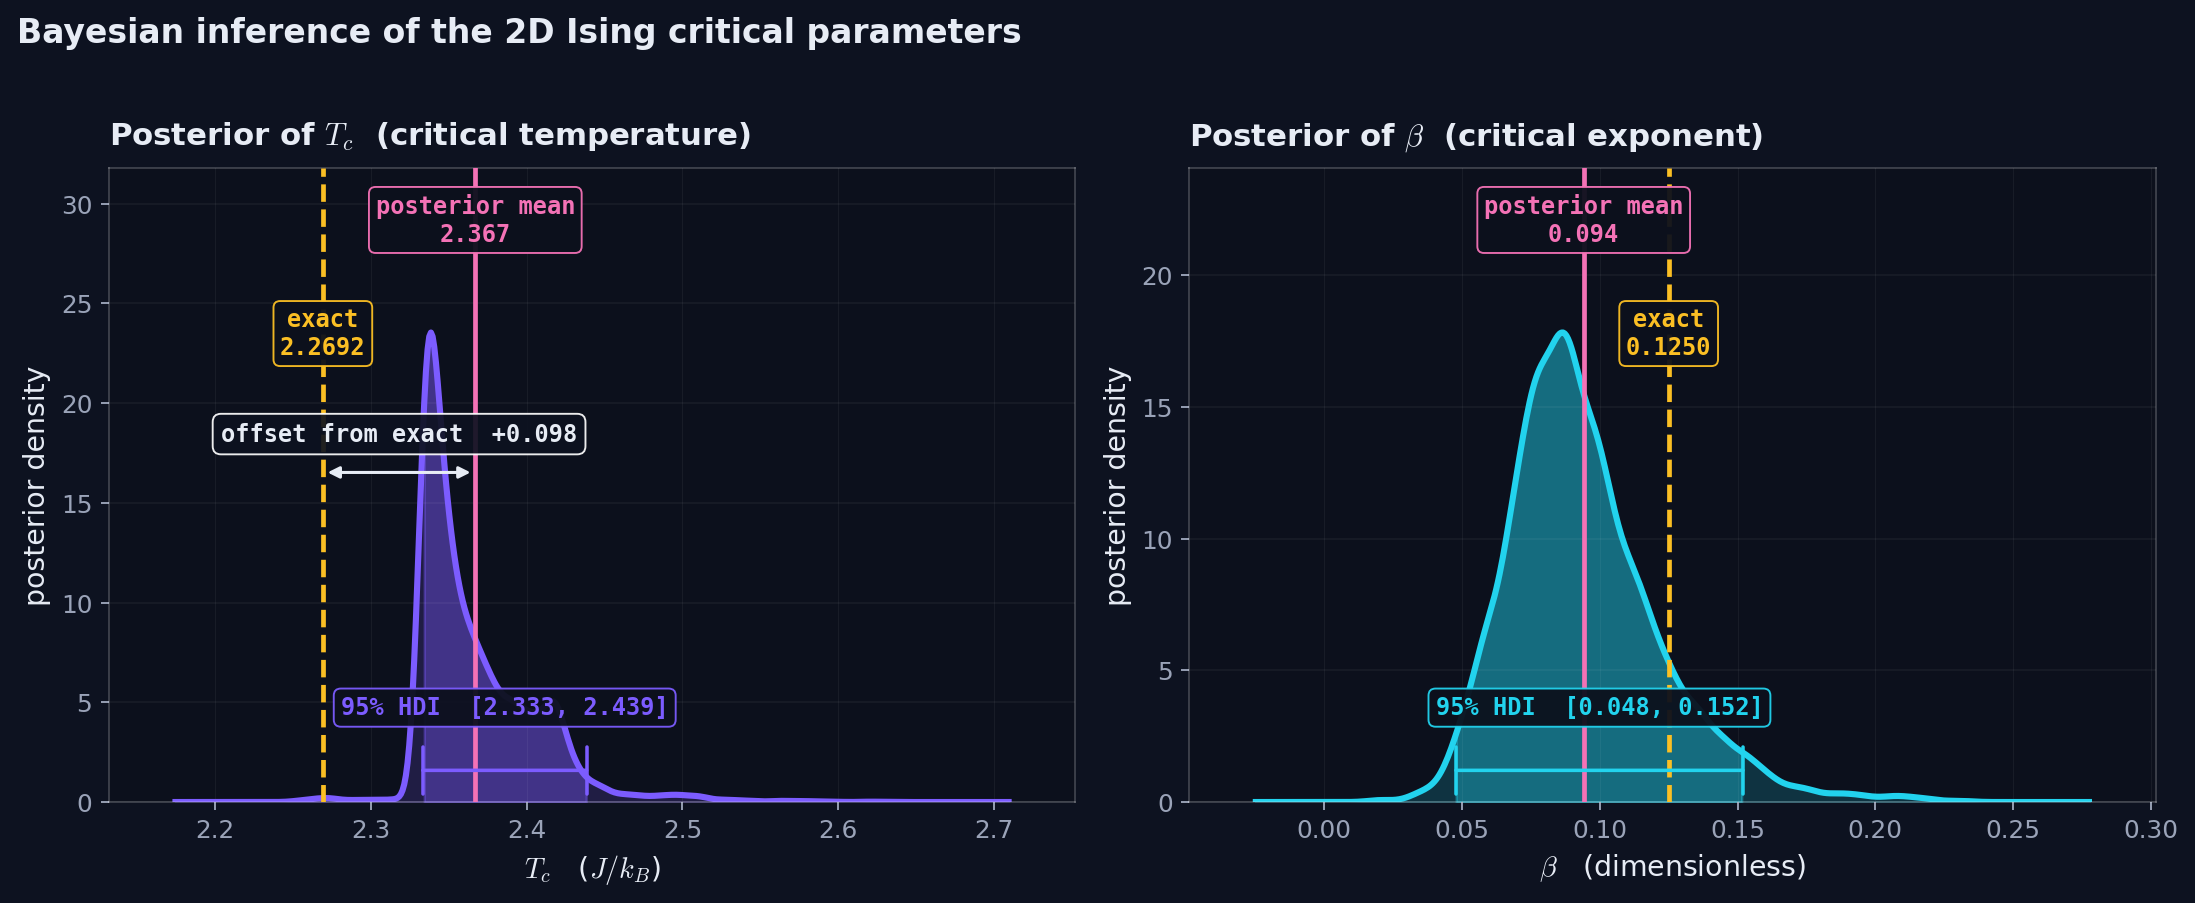
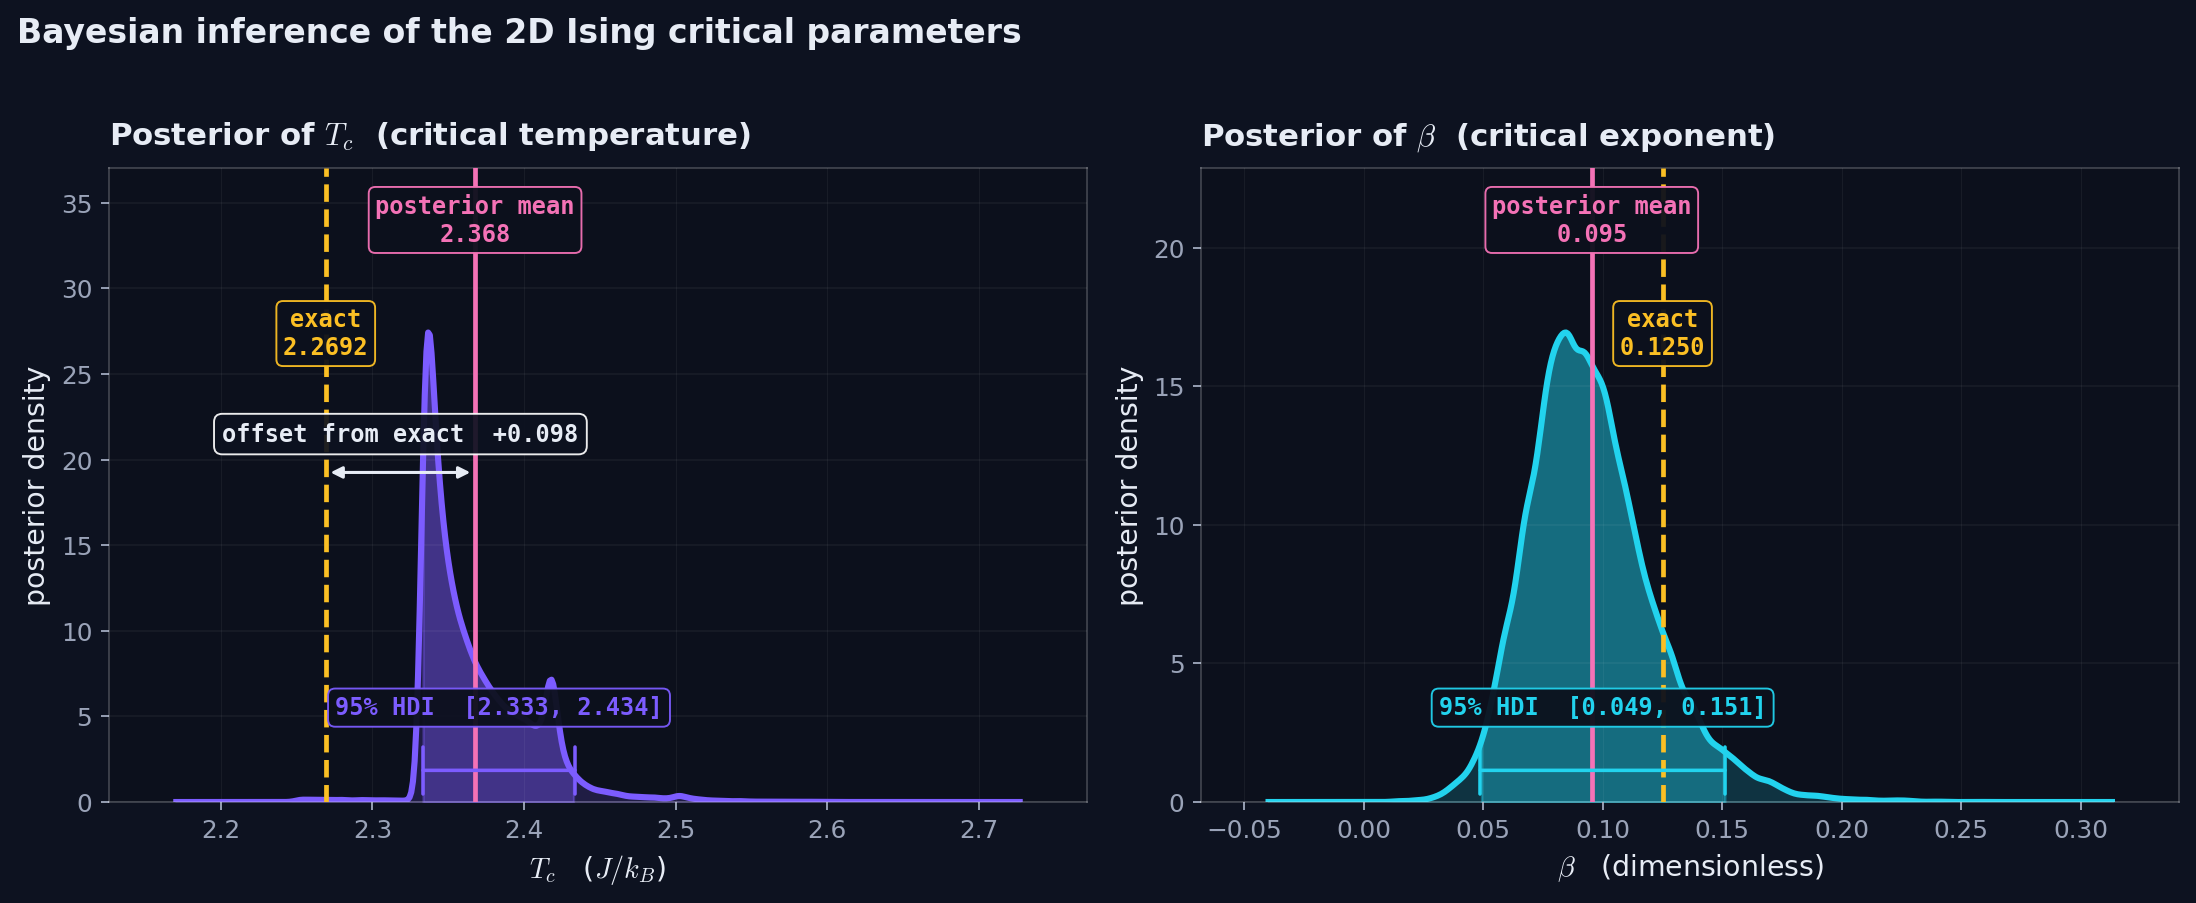
Single-size and model-comparison MCMC with 50 000 draws per chain (was 5 000): ESS of beta 187 -> 2 074, R-hat = 1.00 for every fit. Numbers move in the third decimal (Tc 2.368 [2.333, 2.434], beta 0.095 [0.049, 0.151]). The free-amplitude fit on T < 2.25 was not degenerate: with 5 000 draws its cha

diff --git a/scripts/export_json.py b/scripts/export_json.py
@@ -74,26 +74,24 @@ def _load_csv(path: str) -> dict:
     return {"T": T, "M_mean": M, "M_std": S}
 
 
-def _thin(array_2d: np.ndarray, max_draws: int = 1500) -> np.ndarray:
-    """Subsample draws dimension to cap file size."""
-    n_chains, n_draws = array_2d.shape
-    if n_draws <= max_draws:
-        return array_2d
-    step = max(1, n_draws // max_draws)
-    return array_2d[:, ::step]
+def _thin_step(n_draws: int, max_draws: int = 1500) -> int:
+    """Stride that subsamples the draws dimension to cap file size."""
+    return 1 if n_draws <= max_draws else max(1, n_draws // max_draws)
 
 
 def _posterior_to_dict(trace) -> dict:
     post = trace.posterior
-    Tc = _thin(post["Tc"].values)
-    beta = _thin(post["beta"].values)
-    sigma = _thin(post["sigma"].values)
+    step = _thin_step(post.sizes["draw"])
+    Tc = post["Tc"].values[:, ::step]
+    beta = post["beta"].values[:, ::step]
+    sigma = post["sigma"].values[:, ::step]
     return {
         "Tc": Tc.tolist(),
         "beta": beta.tolist(),
         "sigma": sigma.tolist(),
         "n_chains": int(Tc.shape[0]),
         "n_draws": int(Tc.shape[1]),
+        "draw_step": int(step),
     }
 
 
@@ -150,8 +148,8 @@ def main(
             "n_thermalization": 2000,
             "n_measure": 3000,
             "sampler": "random-walk Metropolis-Hastings (NumPy)",
-            "mcmc_chains": 4,
-            "mcmc_draws_post_burn": 5000,
+            "mcmc_chains": int(trace.posterior.sizes["chain"]),
+            "mcmc_draws_post_burn": int(trace.posterior.sizes["draw"]),
             "mcmc_tune": 1000,
         },
     }

diff --git a/src/bayesian.py b/src/bayesian.py
@@ -92,7 +92,7 @@ def sample_mh_numpy(
     T: np.ndarray,
     M: np.ndarray,
     *,
-    draws: int = 5000,
+    draws: int = 50_000,
     tune: int = 1000,
     chains: int = 4,
     step: tuple[float, float, float] = (0.05, 0.01, 0.015),
@@ -199,7 +199,7 @@ def run_full_inference(
     trace_out: str = "data/trace.nc",
     *,
     backend: str = "numpy",
-    draws: int = 5000,
+    draws: int = 50_000,
     tune: int = 1000,
     chains: int = 4,
     target_accept: float = 0.9,
@@ -261,7 +261,7 @@ def _main() -> None:
     parser.add_argument("--input", type=str, default="data/magnetization.csv")
     parser.add_argument("--output", type=str, default="data/trace.nc")
     parser.add_argument("--backend", type=str, default="numpy", choices=["numpy", "pymc"])
-    parser.add_argument("--draws", type=int, default=5000)
+    parser.add_argument("--draws", type=int, default=50_000)
     parser.add_argument("--tune", type=int, default=1000)
     parser.add_argument("--chains", type=int, default=4)
     parser.add_argument("--target-accept", type=float, default=0.9)

diff --git a/scripts/model_comparison.py b/scripts/model_comparison.py
@@ -265,7 +265,7 @@ if __name__ == "__main__":
                                 formatter_class=argparse.RawDescriptionHelpFormatter)
     p.add_argument("--csv", default="data/magnetization.csv")
     p.add_argument("--out", default="results/model_comparison.json")
-    p.add_argument("--draws", type=int, default=5000)
+    p.add_argument("--draws", type=int, default=50_000)
     p.add_argument("--tune", type=int, default=1000)
     p.add_argument("--chains", type=int, default=4)
     p.add_argument("--seed", type=int, default=0)

diff --git a/README.md b/README.md
@@ -361,7 +361,7 @@ downstream figures are backend-agnostic:
 
 - **`numpy` (default)** — a random-walk Metropolis-Hastings sampler
   implemented directly on the log-posterior. No C compiler required; runs in
-  a few seconds. 4 chains × (1000 tune + 5000 draws).
+  about 15 seconds. 4 chains × (1000 tune + 50 000 draws).
 - **`pymc`** — reference implementation with PyMC + NUTS (gradient-based).
   More efficient but relies on PyTensor's C backend.
 
@@ -372,8 +372,8 @@ Select with `--backend numpy|pymc`.
 ![Posteriors](figures/posteriors.png)
 
 **Left panel · posterior of `Tc`.** Most of the probability mass lies between
-`2.33` and `2.44`, with a sharp peak near `2.34` and a long tail to higher
-temperatures. The pink vertical line is the posterior mean (`2.367`); the
+`2.33` and `2.43`, with a sharp peak near `2.34` and a long tail to higher
+temperatures. The pink vertical line is the posterior mean (`2.368`); the
 orange dashed line is Onsager's exact value `Tc = 2.2692`; the bar is the 95%
 highest-density interval (HDI). The exact value falls **outside** the HDI, by
 about `0.1`.
@@ -384,12 +384,12 @@ number of points in the power-law arm changes by one, producing kinks in the
 log-posterior.
 
 **Right panel · posterior of `β`.** The posterior is wide — the 95% HDI
-`[0.048, 0.152]` spans a factor of three — and the exact `1/8` sits inside it,
+`[0.049, 0.151]` spans a factor of three — and the exact `1/8` sits inside it,
 toward the upper end. A credible interval this wide is not much of a
 measurement, and Section 11 shows that its location depends on modelling
 choices more than on the data.
 
-The posterior of the discrepancy term, `σ = 0.115 [0.082, 0.151]`, is the
+The posterior of the discrepancy term, `σ = 0.115 [0.083, 0.151]`, is the
 first warning: it is about a hundred times larger than the Monte Carlo
 errors `e_k` (`10⁻⁴` to `4 × 10⁻²`). The power law misses the data by far more
 than the data's own uncertainty.
@@ -403,18 +403,18 @@ but are not. These three checks are non-negotiable:
 
 - **`R̂` (Gelman-Rubin).** Compares variance between chains to variance within
   chains. `R̂ ≤ 1.01` is the gold standard, `≤ 1.05` is tolerable. Here
-  `R̂ = 1.01` for `Tc` and `σ` and `1.02` for `β`.
+  `R̂ = 1.00` for all three parameters.
 - **`ESS_bulk` (effective sample size).** Accounts for autocorrelation —
   one independent sample is worth many correlated ones. `≥ 200` is a
-  working threshold. `Tc` (332) and `σ` (562) clear it; `β` (187) falls just
-  short. The hard threshold at `T = Tc` makes `β` the slowest-mixing
-  parameter of this random-walk sampler; more draws or the NUTS backend
-  would lift it.
+  working threshold. All three clear it: `Tc` 3 983, `σ` 5 628 and `β` 2 074.
+  The hard threshold at `T = Tc` makes `β` the slowest-mixing parameter of
+  this random-walk sampler, which is why the chains are 50 000 draws long:
+  with 5 000, the ESS of `β` was 187.
 - **Visual inspection.** Healthy chains overlap, do not drift with
   iteration, do not stick in any one region. Each subplot above shows all
   four chains on top of each other.
 
-The acceptance rate is 26–31% per chain. The sampler explores this posterior
+The acceptance rate is 29–31% per chain. The sampler explores this posterior
 adequately, with `β` the parameter to watch. Convergence, though, only says
 the posterior was sampled correctly — not that the model behind it is right.
 
@@ -430,14 +430,14 @@ prior on `β`:
 
 | Fit window | Likelihood | `β` prior | `Tc` | `β` (95% HDI) | `σ` |
 |---|---|---|---|---|---|
-| all `T` | homoscedastic | normal | 2.370 ± 0.036 | 0.101 [0.052, 0.147] | 0.119 |
-| all `T` | homoscedastic | flat | 2.368 ± 0.039 | 0.099 [0.051, 0.150] | 0.118 |
-| all `T` | heteroscedastic | normal | 2.367 ± 0.035 | 0.098 [0.056, 0.141] | 0.114 |
-| all `T` | heteroscedastic | flat (**used**) | 2.367 ± 0.038 | 0.094 [0.048, 0.152] | 0.115 |
-| `T < 2.25` | homoscedastic | normal | 2.30 ± 0.18 | 0.046 [0.026, 0.077] | 0.034 |
-| `T < 2.25` | homoscedastic | flat | 2.26 ± 0.15 | 0.041 [0.025, 0.070] | 0.032 |
-| `T < 2.25` | heteroscedastic | normal | 2.29 ± 0.16 | 0.044 [0.026, 0.076] | 0.033 |
-| `T < 2.25` | heteroscedastic | flat | 2.27 ± 0.16 | 0.042 [0.025, 0.071] | 0.032 |
+| all `T` | homoscedastic | normal | 2.370 ± 0.036 | 0.102 [0.057, 0.150] | 0.119 |
+| all `T` | homoscedastic | flat | 2.368 ± 0.037 | 0.099 [0.052, 0.154] | 0.119 |
+| all `T` | heteroscedastic | normal | 2.369 ± 0.035 | 0.098 [0.056, 0.145] | 0.115 |
+| all `T` | heteroscedastic | flat (**used**) | 2.368 ± 0.036 | 0.095 [0.049, 0.151] | 0.115 |
+| `T < 2.25` | homoscedastic | normal | 2.31 ± 0.19 | 0.046 [0.025, 0.080] | 0.035 |
+| `T < 2.25` | homoscedastic | flat | 2.26 ± 0.14 | 0.041 [0.024, 0.067] | 0.032 |
+| `T < 2.25` | heteroscedastic | normal | 2.31 ± 0.18 | 0.046 [0.025, 0.079] | 0.034 |
+| `T < 2.25` | heteroscedastic | flat | 2.25 ± 0.13 | 0.040 [0.024, 0.065] | 0.031 |
 
 Three things follow.
 
@@ -446,7 +446,7 @@ Three things follow.
    moves `β` by less than its own uncertainty.
 2. **The fit window matters a great deal.** On the ordered side alone, `β`
    drops to `0.04` and its HDI excludes `1/8`, while `Tc` is barely
-   constrained (`± 0.16`).
+   constrained (`± 0.13` to `± 0.19`).
 3. **The simulation is not the problem.** For `T < 2.25` the measured
    `⟨|M|⟩` agrees with Onsager's exact infinite-lattice magnetisation
    `M(T) = (1 − sinh(2/T)⁻⁴)^(1/8)` (Yang 1952) to within `0.012`, or 1.8
@@ -455,8 +455,8 @@ Three things follow.
    `T → Tc`, with an amplitude of about `1.22` rather than `1`.
 
 Freeing the amplitude, `M = B (1 − T/Tc)^β`, does not rescue the fit: on the
-ordered side `Tc` and `β` become degenerate (`Tc` HDI `[2.18, 2.62]`, `R̂ = 1.10`),
-and over the full range the fit moves to `β = 0.38`, far from `1/8`.
+ordered side it gives `β = 0.074 [0.055, 0.103]`, which excludes `1/8`, and over
+the full range `β = 0.38`, far from it.
 
 Fixing the amplitude at its exact value does not rescue it either, and the
 way it fails shows what is missing. To leading order in `t = 1 − T/Tc`,
@@ -475,7 +475,7 @@ the `O(t²)` remainder is at most `0.97` Monte Carlo standard errors at any data
 point. The model `M = A t^β (1 + b t)` therefore needs no discrepancy term `σ`:
 the likelihood uses the Monte Carlo errors alone, with flat priors on `Tc`,
 `β` and `b`. On the same nine points as above it gives `β = 0.124 [0.122, 0.127]`,
-`Tc = 2.262 [2.244, 2.282]` and `b = −0.227 [−0.233, −0.221]`, with
+`Tc = 2.262 [2.244, 2.281]` and `b = −0.227 [−0.233, −0.221]`, with
 `χ² = 8.1` for 6 degrees of freedom: all three compatible with the exact
 `1/8`, `2.269` and `−0.225`. On `T < 2.1` (eight points) the result is the
 same (`β = 0.124`, `Tc = 2.260`).
@@ -593,7 +593,7 @@ Tc   =   2 / ln(1 + √2)   ≈   2.2692
 
 | Method | `Tc` (95% HDI) | `β` (95% HDI) | Exact in HDI? |
 |---|---|---|---|
-| Single lattice, `L = 32`, power law (Sections 8–11) | 2.367 [2.333, 2.439] | 0.094 [0.048, 0.152] | `Tc` no · `β` yes, but not robust |
+| Single lattice, `L = 32`, power law (Sections 8–11) | 2.368 [2.333, 2.434] | 0.095 [0.049, 0.151] | `Tc` no · `β` yes, but not robust |
 | Finite-size scaling, `L = 16–64` (Section 12) | 2.268 [2.265, 2.271] | 0.113 [0.101, 0.126] | both yes |
 
 The single-size fit is not a usable estimator of either quantity: its `Tc` is
@@ -633,7 +633,7 @@ Typical runtimes on a laptop CPU:
 | Stage | Time |
 |---|---|
 | Single-size simulation (32×32, 25 temperatures) | ~10 s |
-| Single-size MCMC (4 chains × 5000 draws) | a few seconds |
+| Single-size MCMC (4 chains × 50 000 draws) | about 15 s |
 | Finite-size-scaling simulation (L = 8–64, 15 temperatures) | ~10 min |
 | Finite-size-scaling fit | ~15 s |
 | Figures | < 5 s |
